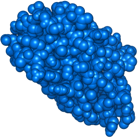
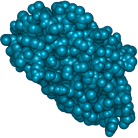
changes start and end button text to unicode arrows, recolored  yellowCytokine.png and helf-lifeextiensiondomain molecules to brand colors. split out the js file to a seperate file.

diff --git a/interactive.html b/interactive.html
@@ -20,8 +20,8 @@
 
     <ul class="controls">
         <li class='begin'>Play</li>
-        <li class="start">Start</li>
-        <li class="end">End</li>
+        <li class="start">↩</li>
+        <li class="end">↪</li>
         <li class='reset'>Reset</li>
     </ul>
 
@@ -62,90 +62,11 @@
 <script type="text/javascript" src="js/gsap.min.js"></script>
 <script src="    https://s3-us-west-2.amazonaws.com/s.cdpn.io/16327/ScrollTrigger.min.js"></script>
 
-<script>
-    const colorScheme = [ 
-        {"cytokineDomain": "yellow"},
-        {"halfLifeExtensionDomain": "blue"},
-        {"proteaseCleavableLinkers": "red" },
-        {"inactivationDomain": "cyan"}
-    ];
 
-    let cytokine = document.querySelector('.cytokine');
-
-        halfLifeExtension = document.querySelector('.cytokinePart.halfLifeExtensionDomain'),
-        cyanImage = document.querySelector('.cytokinePart.cytokineDomain'),
-        proteaseCleavableLinkers = document.querySelector('.cytokinePart.proteaseCleavableLinkers'),
-        inactivationDomain = document.querySelector('.cytokinePart.inactivationDomain'),
-        buttonPlayReplay = document.querySelector('.begin'),
-        buttonReset = document.querySelector('.reset');
-        buttonStart = document.querySelector('.start');
-        buttonEnd = document.querySelector('.end');
-
-
-
-    gsap.registerPlugin(ScrollTrigger);
-    gsap.defaults({ ease: "circle", duration: .5});
-
-
-
-    fadeOnMicroEnviro=()=>{
-        let tl = gsap.timeline();
-        tl.fromTo(".membraneAndReceptor", 
-        {scrollTrigger:{
-            start: 'top bottom',
-            marker:false },
-             opacity: 0, duration:2},
-        {opacity:1})
-    }
-
-
-
-    let tl =  gsap.timeline();
-    let membraneTrigger = "top bottom";
-    tl.addLabel('beginning');
-    tl.pause();
-    tl.to('.protease',{  x:800, y:-80, duration:2, opacity:1, ease: "power1"} )
-            .to('.protease', {opacity:0})
-            .to(halfLifeExtension,{x:-200, y: 200, opacity:0, duration: 2})
-            .to(inactivationDomain, {x: 200, y: 200, opacity:0, duration: 2}, "-=2")
-            .to('.proteaseCleavableLinkers', {opacity:0}, "-=1")
-            .to('.deliveryText', {opacity:1}, "-=1")
-            .to('.cytokine', {y:150, x:200, duration: 2, ease:"power1"}, "-=1")
-            .to('.membraneAndReceptor', {opacity:1, y:-20, duration:3, "z-index":-2},"-=2")
-            .to('.receptor', {y:-30, duration:3}, "-=3")
-            .addLabel('end');
-
-
-buttonPlayReplay.addEventListener("click",()=>{
-
-    if( buttonPlayReplay.innerText = "play"){
-        buttonPlayReplay.innerText = "Replay"
-        tl.play("beginning")
-    }else{
-        buttonPlayReplay.innerText = "restart";
-        tl.play("beginning")
-    }  
- });
-
-buttonReset.addEventListener("click", ()=>{
-    tl.seek("beginning");
-    tl.pause();
-});    
-
-buttonStart.addEventListener("click", ()=>{
-    tl.seek("beginning");
-    tl.pause();
-});
-
-buttonEnd.addEventListener('click', ()=>{
-    tl.seek("end");
-})
- 
 
    
 
-
-</script>
+<script src="js/interactive.js"> </script> </script>
 
 </body>
 </html>

diff --git a/js/interactive.js b/js/interactive.js
@@ -1,0 +1,104 @@
+const colorScheme = [
+  { cytokineDomain: "yellow" },
+  { halfLifeExtensionDomain: "blue" },
+  { proteaseCleavableLinkers: "red" },
+  { inactivationDomain: "cyan" },
+];
+
+let cytokine = document.querySelector(".cytokine");
+
+(halfLifeExtension = document.querySelector(".cytokinePart.halfLifeExtensionDomain")),
+  (cyanImage = document.querySelector(".cytokinePart.cytokineDomain")),
+  (proteaseCleavableLinkers = document.querySelector(".cytokinePart.proteaseCleavableLinkers")),
+  (inactivationDomain = document.querySelector(".cytokinePart.inactivationDomain")),
+  (buttonPlayReplay = document.querySelector(".begin")),
+  (buttonReset = document.querySelector(".reset"));
+buttonStart = document.querySelector(".start");
+buttonEnd = document.querySelector(".end");
+
+gsap.registerPlugin(ScrollTrigger);
+gsap.defaults({ ease: "circle", duration: 0.5 });
+
+grayScale = () => {
+  gsap.defaults({ ease: "circle", duration: 0.8 });
+
+  let tl = gsap.timeline();
+  tl.from(
+    [
+      halfLifeExtension.firstElementChild,
+      cyanImage.firstElementChild,
+      inactivationDomain.firstElementChild,
+      proteaseCleavableLinkers.firstElementChild,
+    ],
+    { transform: "scale(.7)", y: 50, filter: "grayscale(1)", stagger: 0.2 }
+  );
+  tl.to(
+    [
+      halfLifeExtension.firstElementChild,
+      cyanImage.firstElementChild,
+      inactivationDomain.firstElementChild,
+      proteaseCleavableLinkers.firstElementChild,
+    ],
+    { transform: "scale(1)", filter: "grayscale(0)", stagger: 0.2 }
+  );
+  return tl;
+};
+
+grayScale();
+
+fadeOnMicroEnviro = () => {
+  let tl = gsap.timeline();
+  tl.fromTo(
+    ".membraneAndReceptor",
+    {
+      scrollTrigger: {
+        start: "top bottom",
+        marker: false,
+      },
+      opacity: 0,
+      duration: 2,
+    },
+    { opacity: 1 }
+  );
+};
+
+let tl = gsap.timeline();
+let membraneTrigger = "top bottom";
+tl.addLabel("beginning");
+tl.pause();
+tl.to(".protease", { x: 800, y: -80, duration: 2, opacity: 1, ease: "power1" })
+  .to(".protease", { opacity: 0 })
+  .to(halfLifeExtension, { x: -200, y: 200, opacity: 0, duration: 2 })
+  .to(inactivationDomain, { x: 200, y: 200, opacity: 0, duration: 2 }, "-=2")
+  .to(".proteaseCleavableLinkers", { opacity: 0 }, "-=1")
+  .to(".deliveryText", { opacity: 1 }, "-=1")
+  .to(".cytokine", { y: 150, x: 200, duration: 2, ease: "power1" }, "-=1")
+  .to(".membraneAndReceptor", { opacity: 1, y: -20, duration: 3, "z-index": -2 }, "-=2")
+  .to(".receptor", { y: -30, duration: 3 }, "-=3")
+  .addLabel("end");
+
+buttonPlayReplay.addEventListener("click", () => {
+  if ((buttonPlayReplay.innerText = "play")) {
+    buttonPlayReplay.innerText = "Replay";
+    tl.play("beginning");
+  } else {
+    buttonPlayReplay.innerText = "restart";
+    tl.play("beginning");
+  }
+});
+
+buttonReset.addEventListener("click", () => {
+  tl.seek("beginning");
+  tl.pause();
+  grayScale();
+});
+
+buttonStart.addEventListener("click", () => {
+  tl.seek("beginning");
+  tl.pause();
+  grayScale();
+});
+
+buttonEnd.addEventListener("click", () => {
+  tl.seek("end");
+});

diff --git a/css/interactive.css b/css/interactive.css
@@ -50,8 +50,8 @@ body {
 }
 .cytokine .cytokineDomain h1 {
   position: relative;
-  top: -250px;
-  padding: 5px 5px;
+  top: -224px;
+  padding: 5px 15px;
   color: #333;
   font-size: 1rem;
   background-color: #fff;
@@ -69,7 +69,7 @@ body {
   position: relative;
   top: -60px;
   left: -180px;
-  padding: 5px 5px;
+  padding: 5px 15px;
   color: #333;
   font-size: 1rem;
   background-color: #fff;
@@ -88,7 +88,7 @@ body {
   position: relative;
   top: -130px;
   left: 150px;
-  padding: 5px 5px;
+  padding: 5px 15px;
   color: #333;
   font-size: 1rem;
   background-color: #fff;
@@ -105,7 +105,7 @@ body {
   position: relative;
   top: -50px;
   right: -84px;
-  padding: 5px 5px;
+  padding: 5px 15px;
   color: #333;
   font-size: 1rem;
   background-color: #fff;
@@ -231,6 +231,13 @@ li {
   padding-bottom: 0.6rem;
   color: #fff;
   font-size: 1rem;
+}
+
+@media screen and (max-width: 700px) {
+  .controls li {
+    flex-flow: column wrap;
+    width: 100vw;
+  }
 }
 
 /*# sourceMappingURL=interactive.css.map */

diff --git a/css/interactive.scss b/css/interactive.scss
@@ -8,7 +8,7 @@
    $darkGray: rgb(37, 37, 37);
 
    @mixin h1Label {
-        padding: 5px 5px;
+        padding: 5px 15px;
         color: #333;
         font-size:1rem;
         background-color: $white;
@@ -45,7 +45,8 @@
         display: flex;
         flex-flow: row wrap;
         margin: 0;
-         background: #fcb900;
+        background: #fcb900;
+
     }
     
     .controls li{
@@ -81,7 +82,7 @@
             position: relative;
             h1{
                 position: relative;
-                top: -250px;
+                top: -224px;
                 @include h1Label();
             }
         }
@@ -233,5 +234,10 @@
         font-size: 1rem;
     }
 
-    svg{
-     }
+@media screen and (max-width: 700px){
+    .controls li{
+    flex-flow: column wrap;  
+    width: 100vw;      
+    }
+
+}
